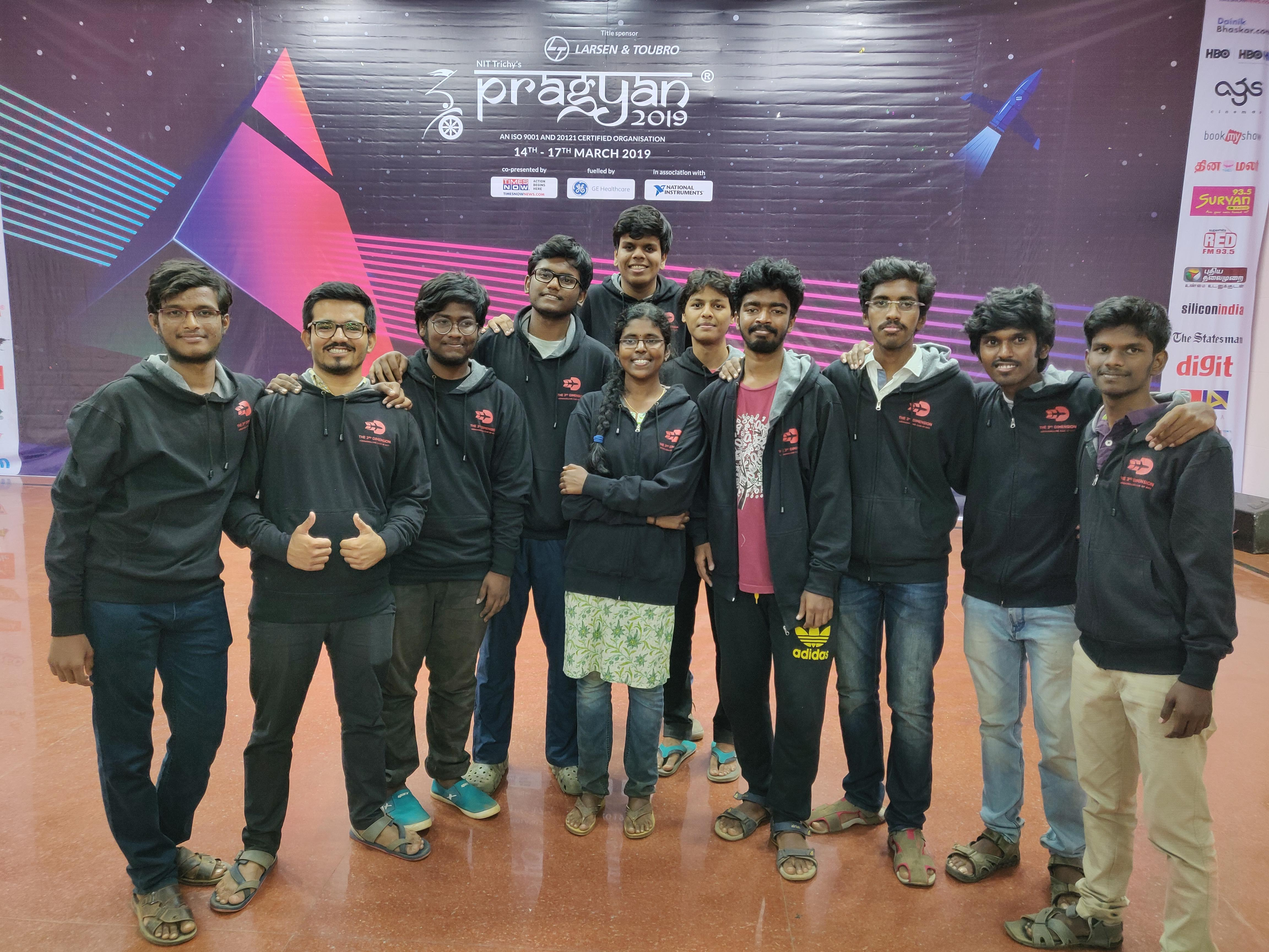
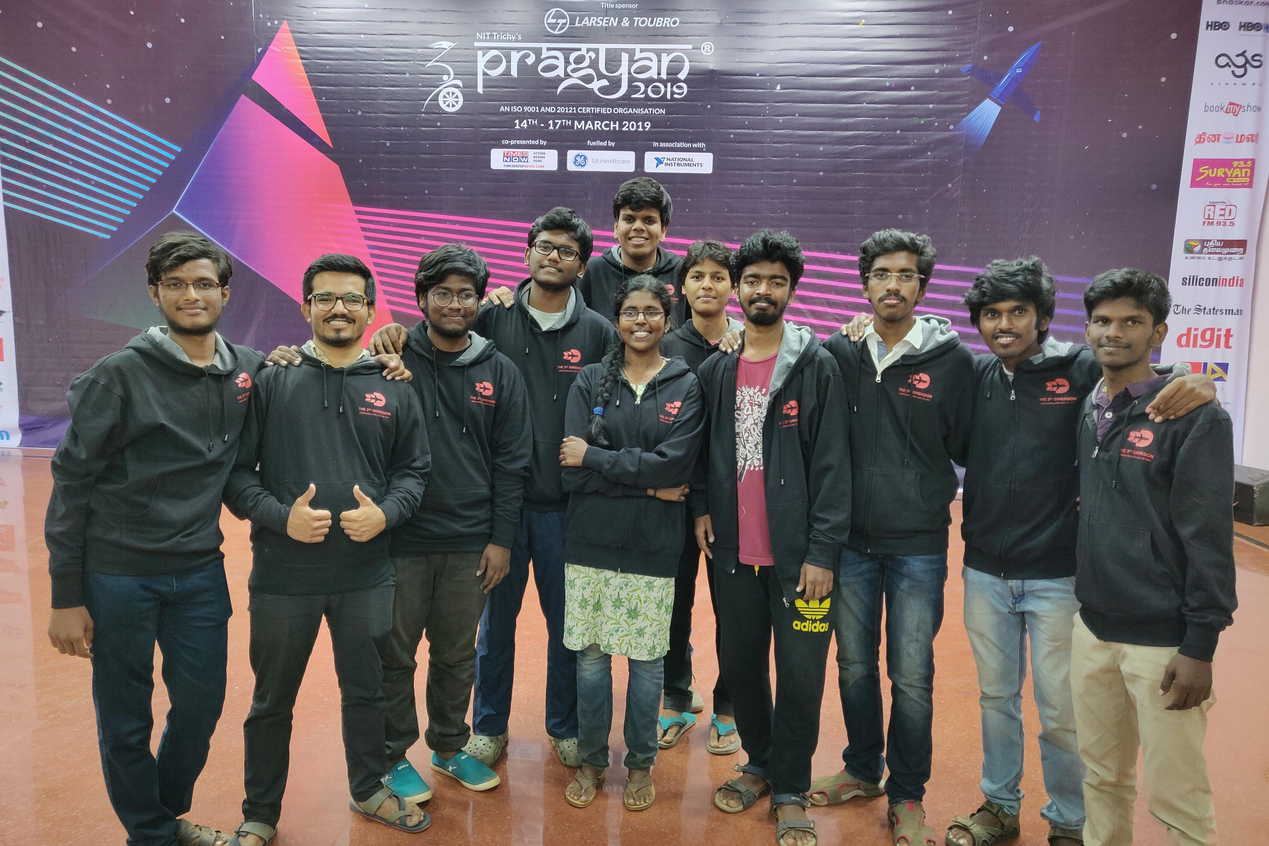
removed grey bars

diff --git a/css/style.css b/css/style.css
@@ -227,13 +227,13 @@ h3 {
 .overlay::before {
   position: absolute;
   content: "";
-  background-color: #000;
+  /* background-color: #000; */
   top: 0;
   left: 0;
   width: 100%;
   height: 100%;
   z-index: -1;
-  opacity: .41;
+  /* opacity: .41; */
 }
 
 /* line 159, ../../Arafath/CL/january 2020/237. Real Estate/HTML/scss/theme-default.scss */
@@ -1260,7 +1260,7 @@ h3 {
   /* line 23, ../../Arafath/CL/january 2020/237. Real Estate/HTML/scss/_slider.scss */
   .slider_area .single_slider {
     padding: 90px 0;
-    height: 690px;
+    /* height: 690px; */
     background-size: contain;
   }
 }
